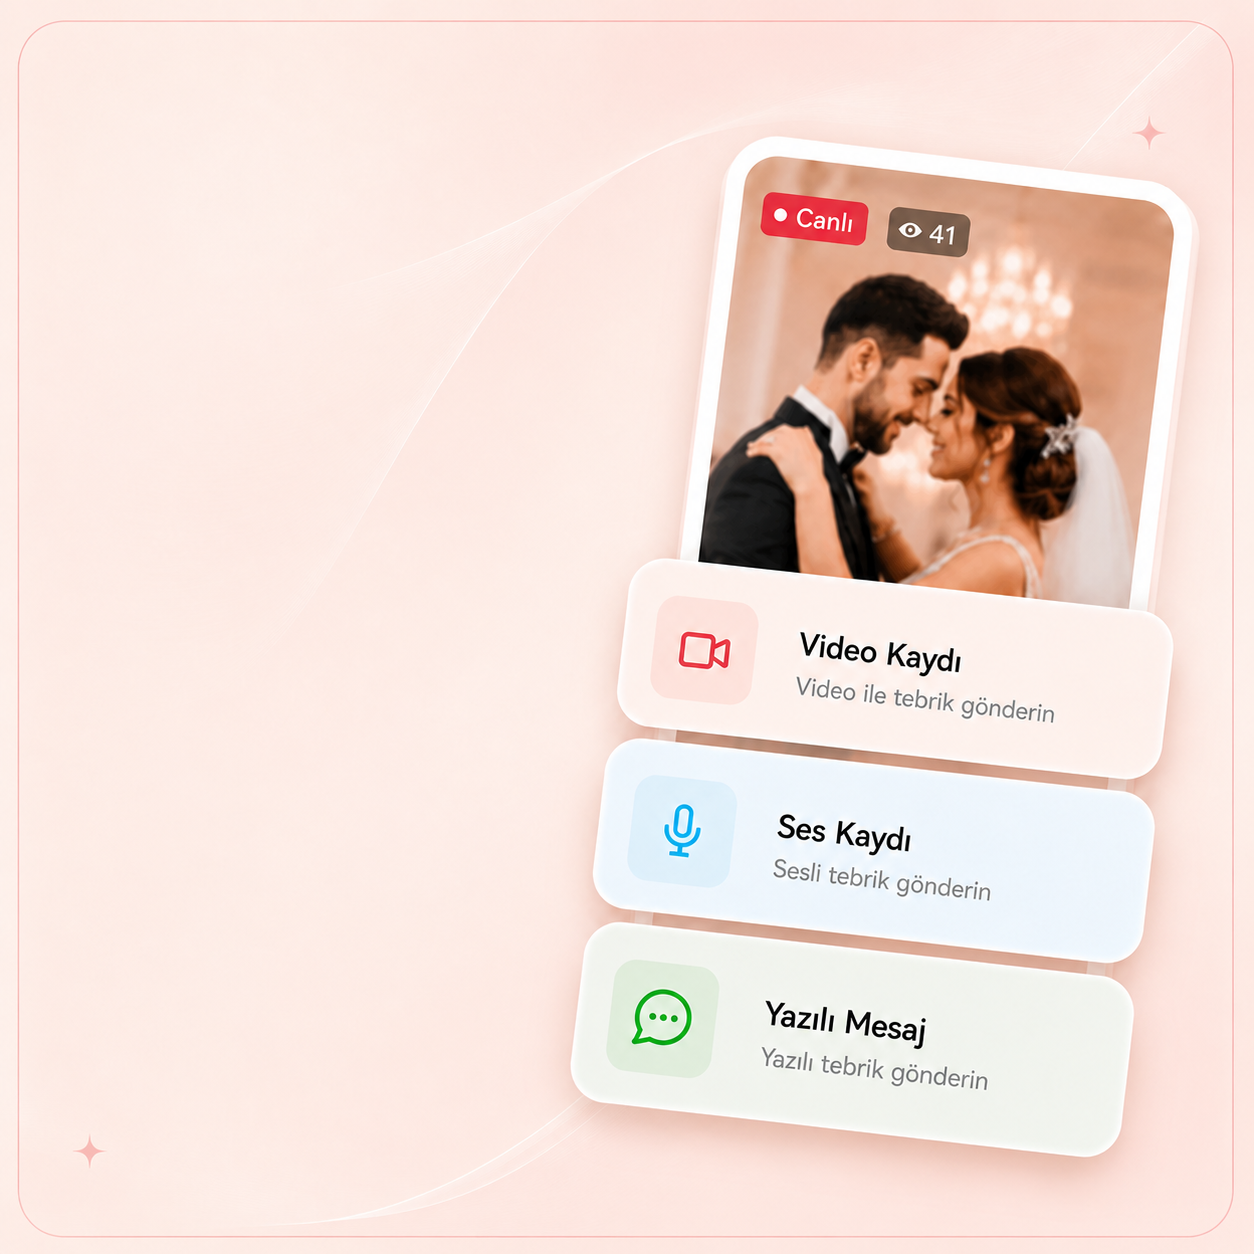
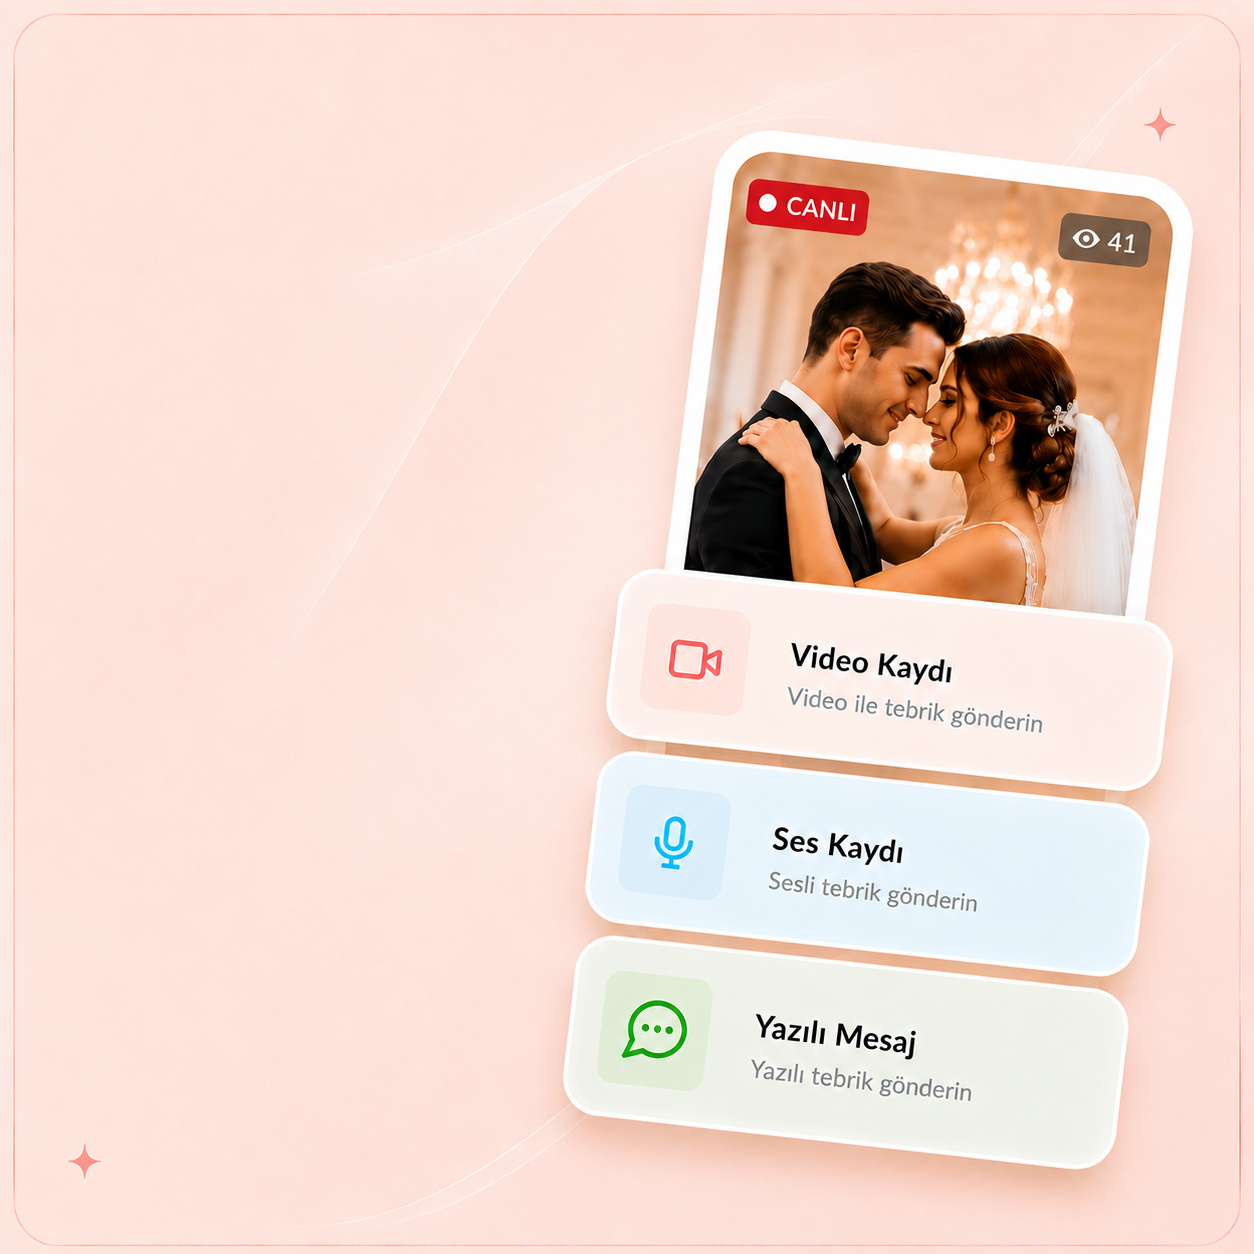
Adim 82: 3 kart final bg + ChatWidget Canli Destek refine
- bg-canli-yayin.png + bg-tebrik.png son versiyonla degistirildi (badgeler baked-in)
- ChatWidget: 'Canli/Destek' alt alta, sag chevron kaldirildi, rose border
  daha belirgin (1.5px solid 0.40), kapaliyken arrow tab genisletildi (40px)
  daha kolay tiklanir oldu.

diff --git a/components/ChatWidget.tsx b/components/ChatWidget.tsx
@@ -376,17 +376,17 @@ export default function ChatWidget({ userEmail = "", userName = "", embedded = f
       {!open && (
         <div
           className="fixed right-0 flex items-stretch z-[9999]"
-          style={{ bottom: 36, background: "#fff", boxShadow: "0 14px 36px rgba(60,40,40,0.14), 0 4px 14px rgba(200,104,110,0.10)", borderTopLeftRadius: 999, borderBottomLeftRadius: 999, border: '1px solid rgba(255,200,200,0.30)' }}
+          style={{ bottom: 36, background: "#fff", boxShadow: "0 14px 36px rgba(60,40,40,0.14), 0 4px 14px rgba(200,104,110,0.12)", borderTopLeftRadius: 999, borderBottomLeftRadius: 999, border: '1.5px solid rgba(200,104,110,0.40)' }}
           aria-label="Canlı destek"
         >
-          {/* Arrow tab — solda, her zaman görünür */}
+          {/* Arrow tab — solda, her zaman görünür (kapaliyken daha geniş tıklama alanı) */}
           <button
             onClick={() => setIsCollapsed(c => !c)}
             className="flex items-center justify-center"
-            style={{ width: 22, paddingLeft: 8, paddingRight: 2, color: '#C8686E' }}
+            style={{ width: isCollapsed ? 40 : 24, paddingLeft: isCollapsed ? 14 : 8, paddingRight: 4, color: '#C8686E', transition: 'width 0.3s ease, padding 0.3s ease' }}
             aria-label={isCollapsed ? "Canlı Destek aç" : "Kapat"}
           >
-            <svg className={`w-[16px] h-[16px] transition-transform duration-300 ${isCollapsed ? '' : 'rotate-180'}`} fill="none" stroke="currentColor" viewBox="0 0 24 24">
+            <svg className={`w-[18px] h-[18px] transition-transform duration-300 ${isCollapsed ? '' : 'rotate-180'}`} fill="none" stroke="currentColor" viewBox="0 0 24 24">
               <path strokeLinecap="round" strokeLinejoin="round" strokeWidth={2.5} d="M15 19l-7-7 7-7" />
             </svg>
           </button>
@@ -394,11 +394,11 @@ export default function ChatWidget({ userEmail = "", userName = "", embedded = f
           {/* Full button — slide collapse (sağa kapanır) */}
           <div
             className="overflow-hidden transition-all duration-500 ease-out"
-            style={{ maxWidth: isCollapsed ? 0 : 200, opacity: isCollapsed ? 0 : 1 }}
+            style={{ maxWidth: isCollapsed ? 0 : 180, opacity: isCollapsed ? 0 : 1 }}
           >
             <button
               onClick={() => setOpen(true)}
-              className="flex items-center gap-2.5 pl-1.5 pr-4 py-1.5 whitespace-nowrap"
+              className="flex items-center gap-2.5 pl-1 pr-4 py-1.5 whitespace-nowrap"
             >
               <span className="relative">
                 <span className="block w-[44px] h-[44px] rounded-full overflow-hidden bg-white" style={{ boxShadow: '0 2px 8px rgba(200,104,110,0.18)' }}>
@@ -406,9 +406,9 @@ export default function ChatWidget({ userEmail = "", userName = "", embedded = f
                 </span>
                 <span className="absolute -top-0.5 -right-0.5 w-3 h-3 bg-green-500 rounded-full border-2 border-white" />
               </span>
-              <span className="flex items-center gap-1.5">
-                <span className="text-[15px] font-bold" style={{ color: '#2B2B2B' }}>Canlı Destek</span>
-                <svg className="w-4 h-4" fill="none" stroke="#9A8585" strokeWidth="2.5" viewBox="0 0 24 24"><path strokeLinecap="round" strokeLinejoin="round" d="M9 5l7 7-7 7" /></svg>
+              <span className="flex flex-col items-start leading-[1.05]" style={{ color: '#2B2B2B' }}>
+                <span className="text-[15px] font-bold">Canlı</span>
+                <span className="text-[15px] font-bold">Destek</span>
               </span>
             </button>
           </div>

diff --git a/app/page.tsx b/app/page.tsx
@@ -279,25 +279,7 @@ export default function Home() {
               </p>
             </div>
 
-            {/* 3 badge yazıları - alt sıra (icon'lar bg'de baked) */}
-            <div className="absolute" style={{ bottom: '9.5%', left: '4.5%', right: '4.5%', height: '13%' }}>
-              <div className="grid grid-cols-3 gap-[2.5%] h-full">
-                <div className="flex items-center justify-end pr-[6%]">
-                  <span className="font-semibold leading-[1.2] text-left" style={{ color: '#5A4848', fontSize: 'clamp(9px, 1.9vw, 14px)' }}>Yüksek<br/>Kalite Yayın*</span>
-                </div>
-                <div className="flex items-center" style={{ paddingLeft: '36%' }}>
-                  <span className="font-semibold leading-[1.2]" style={{ color: '#5A4848', fontSize: 'clamp(9px, 1.9vw, 14px)' }}>Tek tıkla<br/>Yayına Geç</span>
-                </div>
-                <div className="flex items-center" style={{ paddingLeft: '26%' }}>
-                  <span className="font-semibold leading-[1.18]" style={{ color: '#5A4848', fontSize: 'clamp(8px, 1.65vw, 12px)' }}>Davetlilerin<br/>uygulama indirmesi<br/>gerekmez</span>
-                </div>
-              </div>
-            </div>
-
-            {/* Disclaimer - en alt */}
-            <div className="absolute" style={{ bottom: '2.2%', left: 0, right: 0 }}>
-              <p className="text-center italic" style={{ color: '#9A8585', fontSize: 'clamp(8px, 1.55vw, 11px)' }}>*Yayın kalitesi internet bağlantı hızınıza bağlıdır.</p>
-            </div>
+            {/* Badge yazıları artık bg PNG'sinde baked-in (HTML overlay yok) */}
           </div>
 
           {/* Tebrik Mesajları - reklam kartı (kare bg + sadece yazı overlay) */}
